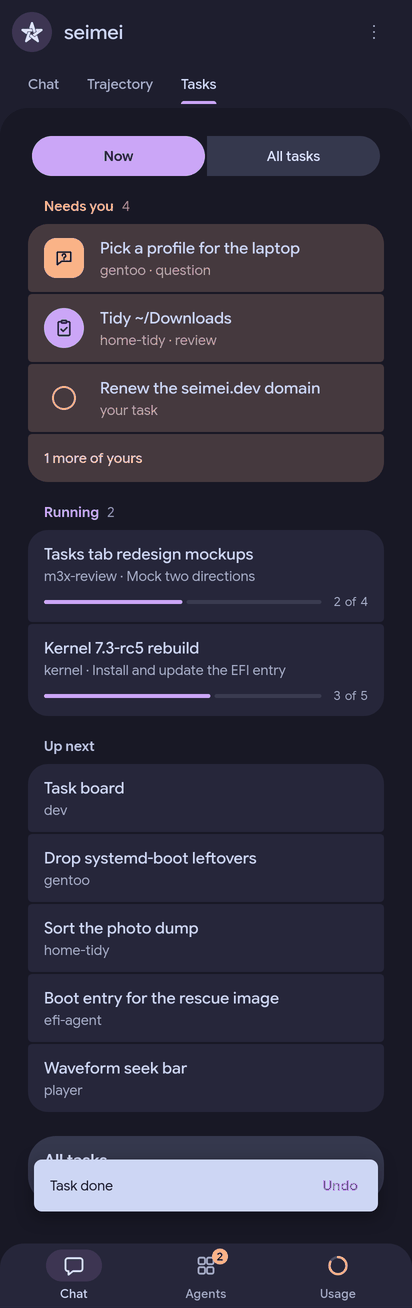
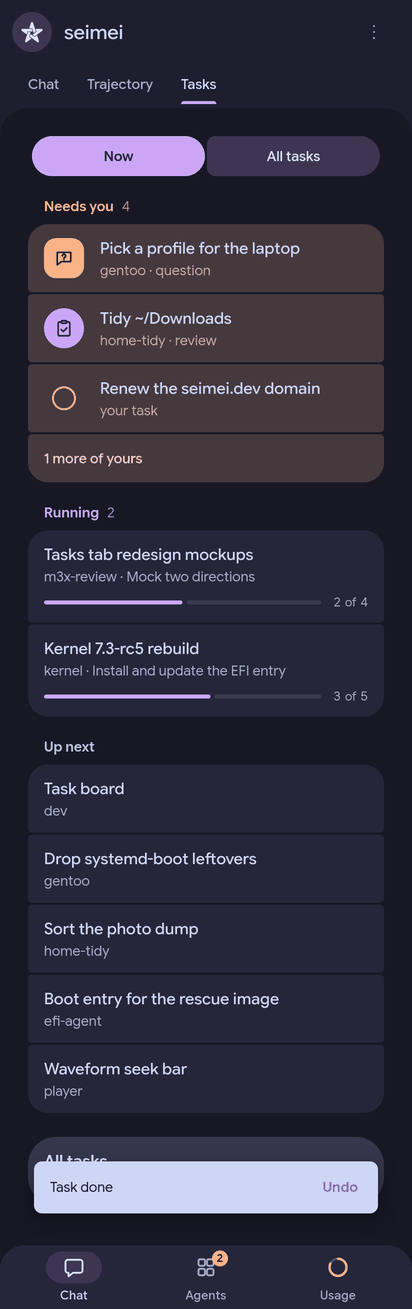
docs : button groups get 20px outer corners so the 8px inner ones survive, tinted unselected
Assisted-by: Claude Opus 5.5

diff --git a/docs/m3x-review/mockups/showcase.css b/docs/m3x-review/mockups/showcase.css
@@ -189,10 +189,10 @@ code, .wcard.approval .body.cmd, .arow code, .report .rbody code { font-size: 14
 
 /* decisions.py */
 .tview, .tseg { gap: 2px; border: 0; }
-.tview button, .tseg button { height: 40px; min-height: 40px; padding: 0 16px; border: 0; border-radius: 8px; background: var(--tonal); color: var(--on-tonal); font: 500 14px/20px var(--sans); }
-.tview button:first-child, .tseg button:first-child { border-radius: 999px 8px 8px 999px; }
-.tview button:last-child, .tseg button:last-child { border-radius: 8px 999px 999px 8px; }
-.tview button.on, .tseg button.on { background: var(--primary); color: var(--on-primary); border-radius: 999px; }
+.tview button, .tseg button { height: 40px; min-height: 40px; padding: 0 16px; border: 0; border-radius: 8px; background: var(--primary-container); color: var(--on-primary-container); font: 500 14px/20px var(--sans); transition: none; }
+.tview button:first-child, .tseg button:first-child { border-radius: 20px 8px 8px 20px; }
+.tview button:last-child, .tseg button:last-child { border-radius: 8px 20px 20px 8px; }
+.tview button.on, .tseg button.on { background: var(--primary); color: var(--on-primary); border-radius: 20px; }
 .btn.busy { gap: 8px; }
 .btn.busy:disabled, .btn.held:disabled { opacity: 1; }
 .btn.held:disabled { opacity: .38; }

diff --git a/docs/m3x-review/tools/decisions.py b/docs/m3x-review/tools/decisions.py
@@ -64,14 +64,15 @@ EDITS = [
 ]
 
 # The connected button group of the spec: 40px, 2px gap, 8px inner corners, the selected one a full pill, the rest
-# tinted, no check. The busy state of an answer: an indicator before the label, which stays.
+# tinted, no check. The outer corners are 20px, half the height: with 999px the browser scales every radius of the
+# box down to fit, and the 8px inner corners came out square. The busy state of an answer: an indicator before the label, which stays.
 CSS = """
 /* decisions.py */
 .tview, .tseg { gap: 2px; border: 0; }
-.tview button, .tseg button { height: 40px; min-height: 40px; padding: 0 16px; border: 0; border-radius: 8px; background: var(--tonal); color: var(--on-tonal); font: 500 14px/20px var(--sans); }
-.tview button:first-child, .tseg button:first-child { border-radius: 999px 8px 8px 999px; }
-.tview button:last-child, .tseg button:last-child { border-radius: 8px 999px 999px 8px; }
-.tview button.on, .tseg button.on { background: var(--primary); color: var(--on-primary); border-radius: 999px; }
+.tview button, .tseg button { height: 40px; min-height: 40px; padding: 0 16px; border: 0; border-radius: 8px; background: var(--primary-container); color: var(--on-primary-container); font: 500 14px/20px var(--sans); transition: none; }
+.tview button:first-child, .tseg button:first-child { border-radius: 20px 8px 8px 20px; }
+.tview button:last-child, .tseg button:last-child { border-radius: 8px 20px 20px 8px; }
+.tview button.on, .tseg button.on { background: var(--primary); color: var(--on-primary); border-radius: 20px; }
 .btn.busy { gap: 8px; }
 .btn.busy:disabled, .btn.held:disabled { opacity: 1; }
 .btn.held:disabled { opacity: .38; }
